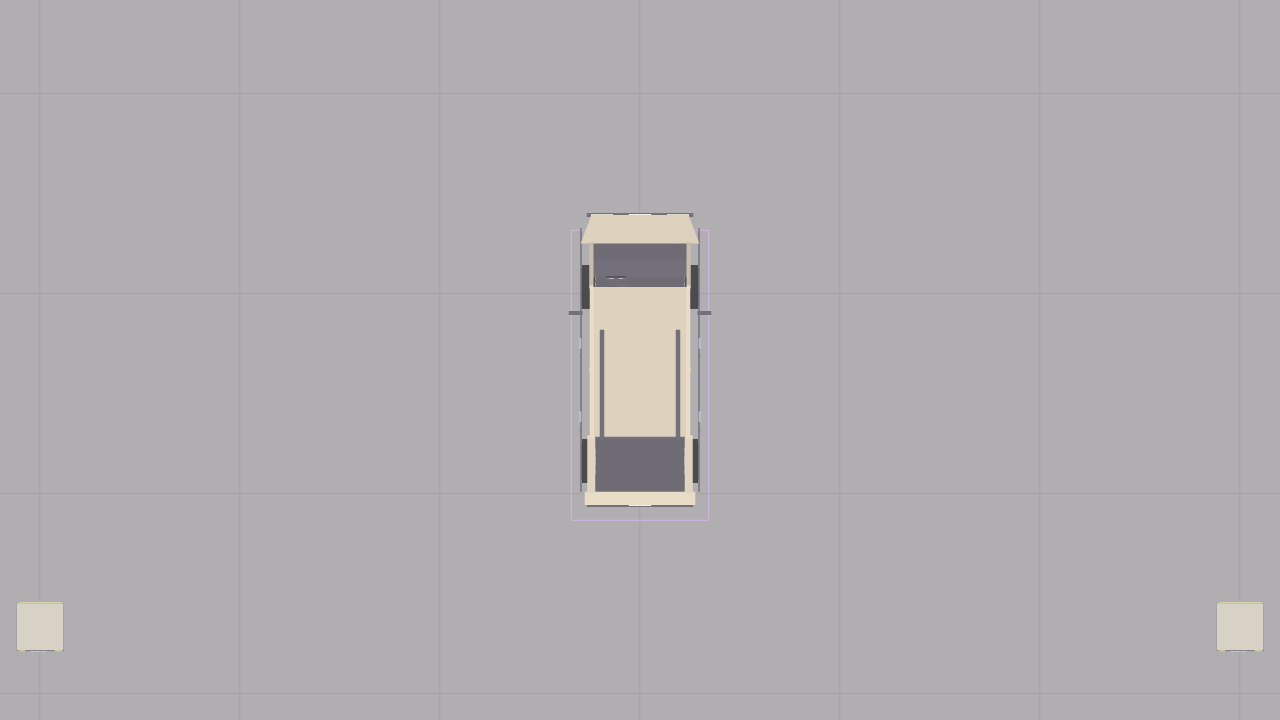
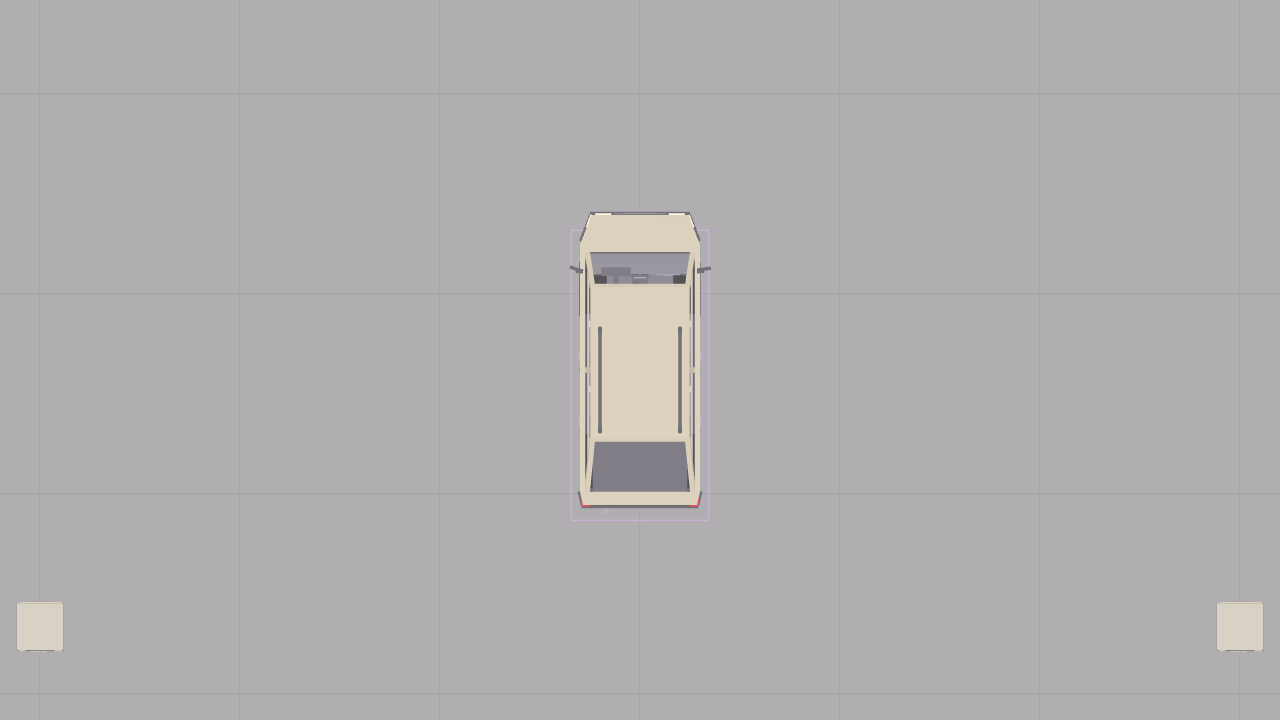
fix(assets): final validation fixes for #12
Independent verification of the issue #12 branch (code/tests and
docs/coverage reviewers, then a re-check of the fixes).

Assets (geometry-only fixes; same triangle counts):
- CUV cargo cover ends at the hatch-glass foot and sits 1 cm lower, so it
  no longer shares the tailgate deck plane (possible z-fighting).
- Cabin layouts carry their front-arch span; the CUV derives it from its
  axle, so kick panels, floor and door trims stay out of the wheel well.
- Footrest moved ahead of the front arch (both vehicles) instead of
  reaching 11 cm into the left wheel well.
- Cabin offset derived from one CABIN_DESIGN_EYE for both layouts.
- GLBs: sedan 2ca1b6ba6f59bf2b89e3a95f48629644f81939d91ce7ee187fe08460fe4f6584,
  CUV 0ded42fe221e01271a8c576217835fc14fb2db8e8abd72610b8d743400046a72.

Workflow and contract:
- assets:review skips the checked-in sync test, so a pre-promotion review
  runs through the browser step; it also hashes src/contracts.ts and
  src/vehicle/rig.ts.
- Removed the always-zero rearDisplayOffsetM; rearDisplayM is the rearview
  anchor. The box prototype's rear camera uses the shared view contract.
- Tests: Cockpit offset equals the eye shift and cabin meshes stay inside
  the body; driven controls rest at identity; lever lifts with +X.
- Stale comments corrected.

Docs: catalog payload and render-call tables re-measured, overhead picture
recaptured, sedan cockpit caption, verification counts and date; pipeline
collider wording and review-limitation note.
[…]

Changed region(s): [[0.4375, 0.3361, 0.5625, 0.7028], [0.4688, 0.275, 0.5312, 0.3056]]

diff --git a/src/vehicle/asset-contract.ts b/src/vehicle/asset-contract.ts
@@ -4,17 +4,16 @@ export type MirrorId = 'rear' | 'left' | 'right';
 
 interface VehicleViewProfile {
   readonly rearCameraOffsetM: Vec3Data;
-  readonly rearDisplayOffsetM: Vec3Data;
   readonly mirrorYawRad: Readonly<Record<MirrorId, number>>;
   /** Forward (-Z) shift of the side-mirror anchors and colliders from frontAxle + 0.35 m. */
   readonly sideMirrorZOffsetM: number;
 }
 
 // Sedan and CUV interior subtasks of issue #12: side mirrors sit at the A-pillar base
-// ahead of the driver; the rearview camera and its display hang under the windshield header.
+// ahead of the driver; the rearview camera and its display (rearDisplayM) share one point
+// under the windshield header.
 const cabinView: VehicleViewProfile = {
   rearCameraOffsetM: [0.36, 0.14, -0.56],
-  rearDisplayOffsetM: [0, 0, 0],
   mirrorYawRad: { rear: Math.PI, left: 105 * Math.PI / 180, right: -105 * Math.PI / 180 },
   sideMirrorZOffsetM: -0.585,
 };
@@ -64,9 +63,6 @@ export function deriveVehicleAssetContract(profile: VehicleProfile) {
     throw new RangeError(`${profile.id}: inconsistent dimensions, eye or axle/overhang contract`);
   }
   const view = vehicleViews[profile.id];
-  if (!view.rearDisplayOffsetM.every(Number.isFinite)) {
-    throw new RangeError(`${profile.id}.rearDisplayOffsetM must be finite`);
-  }
   const boxes = mirrorBoxes(profile);
   const mirror = (id: MirrorId, positionM: Vec3Data): BodyPose => {
     const yaw = view.mirrorYawRad[id];
@@ -80,11 +76,6 @@ export function deriveVehicleAssetContract(profile: VehicleProfile) {
     profile.driverEyeLocalM[1] + view.rearCameraOffsetM[1],
     profile.driverEyeLocalM[2] + view.rearCameraOffsetM[2],
   ];
-  const rearDisplayM: Vec3Data = [
-    rear[0] + view.rearDisplayOffsetM[0],
-    rear[1] + view.rearDisplayOffsetM[1],
-    rear[2] + view.rearDisplayOffsetM[2],
-  ];
   return {
     driverEyeLocalM: profile.driverEyeLocalM,
     mirrors: {
@@ -92,7 +83,7 @@ export function deriveVehicleAssetContract(profile: VehicleProfile) {
       left: mirror('left', boxes[0].centerLocalM),
       right: mirror('right', boxes[1].centerLocalM),
     },
-    rearDisplayM,
+    rearDisplayM: rear,
     bodyVisualZ: [-profile.bodySizeM[2] / 2, profile.bodySizeM[2] / 2] as const,
     bodyPhysicalZ: [
       -(1 - profile.frontWeightFraction) * profile.wheelbaseM - profile.frontOverhangM,

diff --git a/src/render/prototype.ts b/src/render/prototype.ts
@@ -10,6 +10,7 @@ import {
   type SceneAssets,
   type VehicleAnchors,
 } from '../runtime-types';
+import { deriveVehicleAssetContract } from '../vehicle/asset-contract';
 import { deriveGeometry } from '../vehicle/geometry';
 
 export interface PrototypeScene {
@@ -60,7 +61,8 @@ export function buildPrototypeScene(
   geometries.push(steeringWheelGeometry);
   const steeringWheel = new Mesh(steeringWheelGeometry, materials[3]!);
   steeringWheel.name = 'prototype-steering-wheel';
-  steeringWheel.position.set(-0.36, 0.42, -0.72);
+  // Wheel sits ahead of the eye, as in the authored cockpits (eye z - 0.5 m).
+  steeringWheel.position.set(-0.36, 0.42, profile.driverEyeLocalM[2] - 0.5);
   chassis.add(steeringWheel);
 
   const rearSurface = new Mesh(
@@ -70,6 +72,9 @@ export function buildPrototypeScene(
   geometries.push(rearSurface.geometry);
   materials.push(rearSurface.material);
   rearSurface.name = 'mirror-surface-rear';
+  // The box prototype keeps its own larger rear display in front of the eye; its virtual
+  // camera uses the shared cabin view contract's rearview anchor.
+  const rearMirror = deriveVehicleAssetContract(profile).mirrors.rear;
   rearSurface.position.set(0, profile.driverEyeLocalM[1] + 0.12, profile.driverEyeLocalM[2] - 0.75);
   rearSurface.layers.set(MIRROR_EXCLUDED_LAYER);
   chassis.add(rearSurface);
@@ -112,10 +117,7 @@ export function buildPrototypeScene(
   const anchors: VehicleAnchors = {
     driverEyeLocalM: geometry.driverEyeLocalM,
     mirrors: {
-      rear: {
-        positionM: [0, profile.driverEyeLocalM[1] + 0.12, profile.driverEyeLocalM[2] - 0.75],
-        rotation: yawQuaternion(Math.PI),
-      },
+      rear: rearMirror,
       left: {
         positionM: [
           geometry.mirrors[0].centerLocalM[0] + geometry.mirrors[0].halfExtentsM[0],

diff --git a/docs/phase-8-asset-catalog.md b/docs/phase-8-asset-catalog.md
@@ -1,6 +1,7 @@
 # Phase 8 Original 3D Asset Catalog
 
-Captured and measured: 2026-11-05. These are actual GLTFLoader/WebGL renders,
+Captured and measured: 2026-11-05; vehicle pictures, payload and render-call
+measurements refreshed for issue #12 on 2026-11-26. These are actual GLTFLoader/WebGL renders,
 not the earlier concept drawings. Artwork uses shaped low-poly geometry,
 vertex colors and unlit materials; there are no image textures, downloaded
 meshes, dynamic shadows or custom shaders.
@@ -23,7 +24,7 @@ unbranded.
 | Asset | Width x height x length (m) | Stored triangles | Nodes / meshes | GLB bytes |
 |---|---|---:|---:|---:|
 | [Sedan](../public/assets/vehicles/sedan.glb) | 1.8 x 1.45 x 4.6 | 4,976 | 38 / 27 | 367,744 |
-| [CUV](../public/assets/vehicles/cuv.glb) | 1.8 x 1.62 x 4.35 | 5,650 | 39 / 28 | 413,676 |
+| [CUV](../public/assets/vehicles/cuv.glb) | 1.8 x 1.62 x 4.35 | 5,650 | 39 / 28 | 413,648 |
 
 Counts include the cockpit, mirror surfaces and both stored glazing variants,
 even when one is hidden. Both are below the 10,000-triangle vehicle gate.
@@ -97,7 +98,7 @@ over the open cargo bay instead of the sedan's parcel shelf and bulkhead; and a
 console hand lever, `ParkingBrakeLever`, that lifts 0.35 rad while the parking
 brake is applied. It has the same live controls as the sedan.
 
-![Sedan cockpit: live cluster, raked three-spoke wheel, both mirrors in view](images/phase-8/sedan-cockpit.png)
+![Sedan cockpit: live cluster, raked three-spoke wheel, rearview and left mirror in view](images/phase-8/sedan-cockpit.png)
 
 ![Sedan cabin cutaway (left side clipped for this capture only)](images/phase-8/sedan-cabin.png)
 
@@ -206,10 +207,10 @@ All GLBs are self-contained and use no external image/buffer resources.
 
 | Selected pair | Uncompressed bytes |
 |---|---:|
-| Sedan + garage | 383,172 |
-| Sedan + roadside | 363,344 |
-| CUV + garage | 596,300 |
-| CUV + roadside | 576,472 |
+| Sedan + garage | 550,368 |
+| Sedan + roadside | 530,540 |
+| CUV + garage | 596,272 |
+| CUV + roadside | 576,444 |
 
 All pairs are below the 5,000,000-byte gate.
 
@@ -220,15 +221,18 @@ The table reports an auxiliary-update frame at 80 ms:
 
 | Scene | Main calls / triangles | Three mirror calls | Overhead calls | Composite calls | Full-frame calls |
 |---|---:|---|---:|---:|---:|
-| Sedan + garage | 26 / 3,218 | 27 + 16 + 16 | 31 | 1 | 117 |
-| Sedan + roadside | 22 / 3,038 | 25 + 16 + 16 | 31 | 1 | 111 |
-| CUV + garage | 26 / 3,334 | 27 + 16 + 16 | 31 | 1 | 117 |
-| CUV + roadside | 22 / 3,154 | 25 + 16 + 16 | 31 | 1 | 111 |
-| Stage 1, CUV | 57 / 7,970 | 27 + 18 + 18 | 31 | 1 | 152 |
-| Stage 2, CUV | 22 / 3,170 | 62 + 18 + 18 | 31 | 1 | 152 |
-| Stage 3, CUV | 32 / 4,226 | 45 + 17 + 26 | 48 | 1 | 169 |
-| Stage 4, CUV | 23 / 3,182 | 47 + 18 + 21 | 32 | 1 | 142 |
-| Stage 5, CUV | 26 / 3,274 | 43 + 17 + 26 | 47 | 1 | 160 |
+| Sedan + garage | 34 / 6,166 | 24 + 15 + 15 | 35 | 1 | 124 |
+| Sedan + roadside | 30 / 5,986 | 22 + 15 + 15 | 35 | 1 | 118 |
+| CUV + garage | 32 / 5,952 | 24 + 15 + 15 | 36 | 1 | 123 |
+| CUV + roadside | 28 / 5,772 | 22 + 15 + 15 | 36 | 1 | 117 |
+| Stage 1, CUV | 63 / 11,844 | 24 + 17 + 17 | 36 | 1 | 158 |
+| Stage 2, CUV | 28 / 5,788 | 59 + 17 + 17 | 36 | 1 | 158 |
+| Stage 3, CUV | 39 / 7,498 | 40 + 16 + 25 | 53 | 1 | 174 |
+| Stage 4, CUV | 29 / 5,800 | 44 + 17 + 20 | 37 | 1 | 148 |
+| Stage 5, CUV | 33 / 6,538 | 40 + 15 + 25 | 52 | 1 | 166 |
+
+Measured 2026-11-26 after the issue #12 redesign. The sedan's lesson stages peak
+at 65 main-pass calls (Stage 1).
 
 The gates are <=100 **main-pass** calls in sandbox and <=140 in lessons,
 not limits on the sum of all camera passes. These sampled poses pass; their
@@ -252,11 +256,11 @@ part of the production app. See [asset pipeline](asset-pipeline.md).
 
 ## Verification limits
 
-Final software checks passed: 487 unit/DOM/physics/asset tests, 37 explicitly
-selected generator/loader checks, typecheck, production build, 40 Chromium
-browser checks (including both five-stage journeys) and five production
-checks. The explicit asset selection overlaps the ordinary suite; these
-numbers are not additive. No lint script exists. The existing bundle-size
+Final software checks for issue #12 (2026-11-26) passed: 567 unit/DOM/physics/asset
+tests, the CUV `assets:review` (72 focused generator/loader checks plus four browser
+review checks), typecheck, production build, 50 Chromium browser checks (including
+both five-stage journeys) and six production checks. The focused asset selection
+overlaps the ordinary suite; these numbers are not additive. No lint script exists. The existing bundle-size
 warning remains.
 
 The branch includes the current Phase 7 learner experience. Its app captures

diff --git a/docs/asset-pipeline.md b/docs/asset-pipeline.md
@@ -118,13 +118,12 @@ generator/loader/view tests and the candidate browser review, using Playwright's
 existing local server. It fails on stale candidate bytes, test failures or missing
 browser tooling. It does not copy candidates into public assets or approve them.
 Install the project's locked dependencies and Playwright Chromium when missing.
-Known limitation: the focused unit run includes the "checked-in GLBs in sync"
-test. When the authoring source changes, that test fails until the approved GLB
-is promoted, so a pre-promotion `assets:review` stops before the browser step.
-Until the command handles this, run the focused unit tests (expecting only that
-failure) and run `asset-review.spec.ts` directly with the `PARK_CORE_REVIEW_*`
-variables. After promotion, rerun the full `assets:review`, which must pass.
-The sedan and CUV exterior and interior redesigns for issue #12 followed this path.
+The focused unit run skips the "checked-in GLBs in sync" test, which cannot pass
+until an approved candidate is promoted; `assets:check` and the ordinary `vitest`
+run still enforce it. A pre-promotion `assets:review` therefore runs through the
+browser step. After promotion, run `npm run assets:check` and the full suites.
+(The sedan and CUV redesigns for issue #12 predate this and ran the browser spec
+directly with the `PARK_CORE_REVIEW_*` variables.)
 If dimensional/anchor changes make the old public GLB incompatible with the new
 contract, the report labels its baseline unavailable. Use the pre-edit review for
 comparison; do not bypass validation just to obtain a before image.
@@ -171,7 +170,8 @@ Phase 5 measurements in repository history describe the superseded box prototype
 Vehicles use meters, +Y up, -Z forward and a center-of-mass root. `Body` is a
 shaped shell, not a solid validation box. Required bounds, cockpit containment,
 eye/mirror transforms and independent wheel nodes remain validated against
-`src\vehicle\profiles.ts`. Vehicle handling and collision dimensions are unchanged.
+`src\vehicle\profiles.ts`. Vehicle handling, the chassis collider and mirror collider
+sizes are unchanged; mirror collider positions follow `sideMirrorZOffsetM`.
 
 `Exterior` groups the shell and static details; four wheels remain separate.
 `Cockpit` contains seats, dashboard, instruments and steering wheel.
